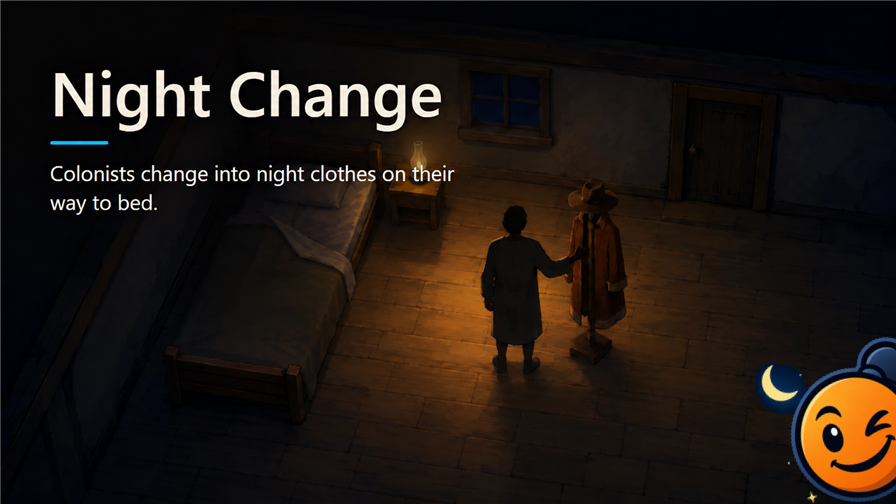
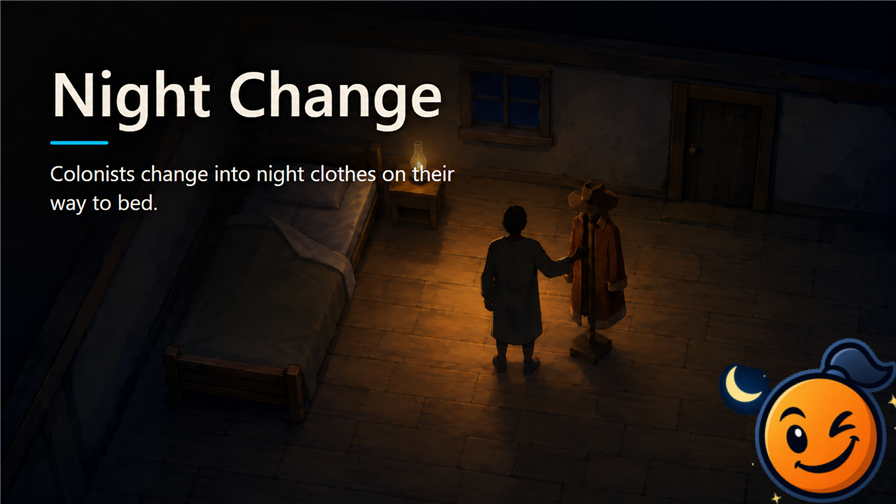
Art: margins now measure the mascot itself, cut 5 px off the right and bottom

Changed region(s): [[0.7812, 0.6548, 1.0, 1.0]]

diff --git a/Art/README.md b/Art/README.md
@@ -4,6 +4,6 @@
 - `Preview-edit.md`: the 2026-09-13 accent correction of the Preview.
 - `Preview-without-icon.png`: the Preview as delivered before 2026-09-29 (896 x 504, byte-identical to the old `Mod/About/Preview.png`), the input of the icon composite.
 - `ModIcon-cutout.png`: the ModIcon with only its background made transparent (`_tools/add-icon-to-preview.cjs`: flood fill from the border, tolerance r<22 g<30 b<44, so the mascot's own outline and the moon and stars are kept).
-- `Preview-with-icon.png`: the Preview with the cutout icon in the bottom-right corner, 210 px, tilted -15deg, bleeding 90 px off the right edge and 50 px off the bottom (as if coming out of the corner) (PUBLISHING.md rule of 2026-09-29: left corner +15deg, right corner -15deg). Installing it as `Mod/About/Preview.png`, and copying it as `00-` of the gallery, is done after the queued Pickle runs, so that the staged tree does not change under them.
+- `Preview-with-icon.png`: the Preview with the cutout icon in the bottom-right corner, 210 px, tilted -15deg, bleeding 5 px of the mascot cut off the right edge and 5 px off the bottom (as if coming out of the corner) (PUBLISHING.md rule of 2026-09-29: left corner +15deg, right corner -15deg). Installing it as `Mod/About/Preview.png`, and copying it as `00-` of the gallery, is done after the queued Pickle runs, so that the staged tree does not change under them.
 
-Rebuild: `set NODE_PATH=<a node_modules holding sharp>` then `node _tools/add-icon-to-preview.cjs right 210 -50 -90 (side, size, bottom margin, side margin; a negative margin bleeds off the edge)`.
+Rebuild: `set NODE_PATH=<a node_modules holding sharp>` then `node _tools/add-icon-to-preview.cjs right 210 -5 -5 (side, size, bottom margin, side margin; a negative margin bleeds off the edge)`.
